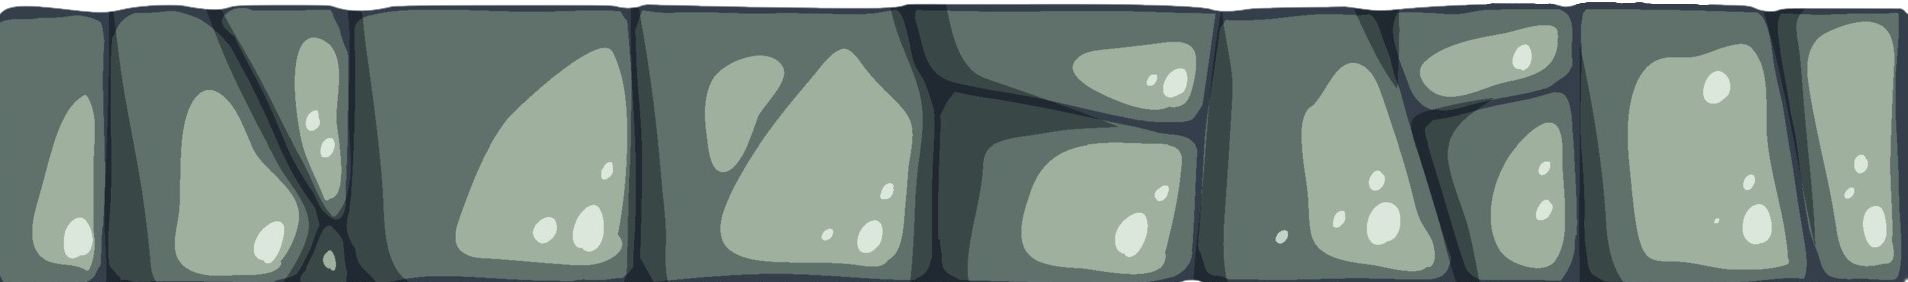
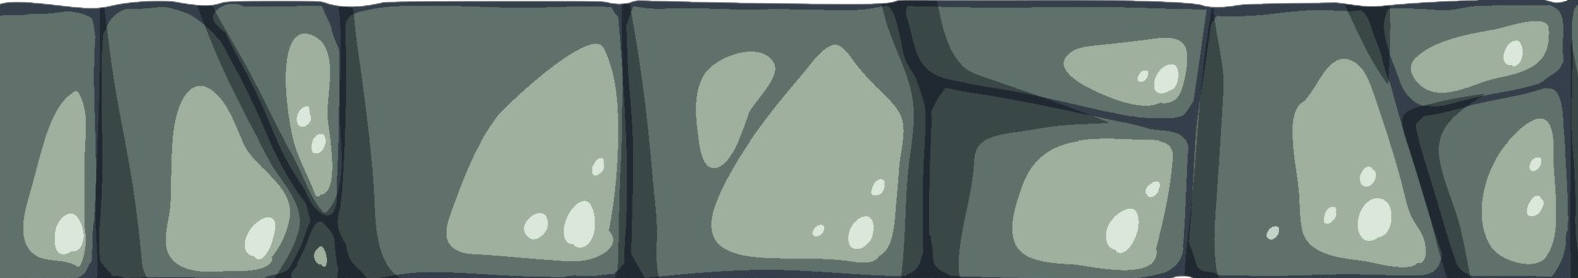
Añado los assets de  boxArmed

diff --git a/src/Scenes/Scene.ts b/src/Scenes/Scene.ts
@@ -1,14 +1,12 @@
 import { Container, Texture, TilingSprite} from "pixi.js";
 import { IActualizable } from "../Utils/IActualizable";
-import { LogoDeCarga } from "./LogoDeCarga";
-import { index } from "..";
 import { Player } from "../Game/Player";
 import { Plataform } from "../Game/Plataform";
 import { checkCollision } from "../Game/IHitbox";
+import { BoxArmed } from "../Game/BoxArmed";
 
 export class Scene extends Container implements IActualizable{
 
-    private physicsLogo: LogoDeCarga;
     private playerSoldier: Player;
     private plataforms: Plataform[];
     private world: Container;
@@ -25,20 +23,13 @@ export class Scene extends Container implements IActualizable{
 
         this.plataforms = [];
 
-        let plataforma = new Plataform("plataforma_piedra");
-        plataforma.position.set(700, 450);
-        plataforma.scale.set(0.1, 0.1);
-        this.world.addChild(plataforma);
-        this.plataforms.push(plataforma);
-
-        plataforma = new Plataform("plataforma_piedra");
-        plataforma.position.set(1200, 300);
-        plataforma.scale.set(0.1, 0.1);
-        this.world.addChild(plataforma);
-        this.plataforms.push(plataforma);
-
         let piso = new Plataform("piso_piedra");
-        piso.position.set(-23, 630);
+        piso.position.set(0, 637);
+        this.world.addChild(piso);
+        this.plataforms.push(piso);
+
+        piso = new Plataform("piso_piedra");
+        piso.position.set(787, 637);
         this.world.addChild(piso);
         this.plataforms.push(piso);
 
@@ -47,49 +38,30 @@ export class Scene extends Container implements IActualizable{
         this.playerSoldier.pivot.set(Math.trunc(this.playerSoldier.width)/3, 0);
         this.world.addChild(this.playerSoldier);
 
-        this.physicsLogo = new LogoDeCarga();
-        this.physicsLogo.position.set(1200, 650);
-        this.physicsLogo.scale.set(0.5, 0.5);
-        this.world.addChild(this.physicsLogo);
-
         this.addChild(this.world);
+
+        const caja_armada1 = new BoxArmed(1);
+        caja_armada1.position.set(600,555);
+        this.addChild(caja_armada1);
+
+        const caja_armada2 = new BoxArmed(2);
+        caja_armada2.position.set(800,555);
+        this.addChild(caja_armada2);
 
     }
 
     public update(deltaTime: number, _deltaFrame: number): void {
         
         this.playerSoldier.update(deltaTime/2);
-        this.physicsLogo.update(deltaTime/2);
         
         this.timePased += deltaTime;
         if(this.timePased>(10000*(50/this.gameSpeed))){
-            if(this.gameSpeed<1000){
-                this.gameSpeed += 25;
-                this.playerSoldier.playerAnimated.animationSpeed +=0.005
-            }
             this.timePased = 0;
-            const plataforma = new Plataform("plataforma_piedra");
-            plataforma.position.set(index.screenWidth, 300 + Math.random()*150);
-            plataforma.scale.set(0.1, 0.1);
-            this.world.addChild(plataforma);
-            this.plataforms.push(plataforma);
-        }
+            
+            //Ir agregando obstáculos
 
-        const plataformsFloors = this.plataforms.filter((elem) => elem.isFloor);
-        if(plataformsFloors.length == 1){
-            const piso = new Plataform("piso_piedra");
-            piso.position.set(1880, 630);
-            this.world.addChild(piso);
-            this.plataforms.push(piso);
-        }
 
-        /*
-        console.log("Personaje y Piso1", checkCollision(this.playerSolider, this.plataforms[0]));
-        console.log("Personaje y Piso2", checkCollision(this.playerSolider, this.plataforms[1]));
-        console.log("Logo y Piso1", checkCollision(this.physicsLogo, this.plataforms[0]));
-        console.log("Logo y Piso2", checkCollision(this.physicsLogo, this.plataforms[1]));
-        console.log("Personaje y Logo", checkCollision(this.physicsLogo, this.playerSolider));
-        */
+        }
 
         let countExitPlat = 0;
         for (let plataform of this.plataforms){
@@ -113,6 +85,14 @@ export class Scene extends Container implements IActualizable{
         // Si la plataforma fué destruida sacarla de la lista de plataformas
         this.plataforms = this.plataforms.filter((elem) => !elem.destroyed);
 
+        const plataformsFloors = this.plataforms.filter((elem) => elem.isFloor);
+        if(plataformsFloors.length == 2){
+            const piso = new Plataform("piso_piedra");
+            piso.position.set(1570, 637);
+            this.world.addChild(piso);
+            this.plataforms.push(piso);
+        }
+
         // Player
         
         /*if(this.playerSoldier.x >= (index.screenWidth - 2*(this.playerSoldier.width/3))){
@@ -132,27 +112,7 @@ export class Scene extends Container implements IActualizable{
         this.background.tilePosition.x -= this.gameSpeed * deltaTime/3000;
         this.background.y = -this.playerSoldier.y * 0.1;
 
-        //Logo
-        // Si speed en Y negativa (-) y X positiva (+) logo va hacia arriba y hacia la derecha.
-        // Si speed en Y negativa (-) y X negativa (-) logo va hacia arriba y hacia la izquierda.
-        // Si speed en Y positiva (+) y X negativa (-) logo va hacia abajo y hacia la izquierda.
-        // Si speed en Y positiva (+) y X positiva (+) logo va hacia abajo y hacia la derecha.
-
-        if(this.physicsLogo.x >= (index.screenWidth - this.physicsLogo.width)){
-            this.physicsLogo.speed.x = this.physicsLogo.speed.x * (-1); 
-        }
-        if(this.physicsLogo.x <= 0){
-            this.physicsLogo.speed.x = this.physicsLogo.speed.x * (-1); 
-        }
-        if(this.physicsLogo.y >= (index.screenHeight - this.physicsLogo.height)){
-            this.physicsLogo.speed.y = this.physicsLogo.speed.y * (-1);
-        }
-        if(this.physicsLogo.y <= 0){
-            this.physicsLogo.speed.y = this.physicsLogo.speed.y * (-1);
-        }
-
         this.playerSoldier.update(deltaTime/2);
-        this.physicsLogo.update(deltaTime/2);
 
     }
 }

diff --git a/src/Game/Plataform.ts b/src/Game/Plataform.ts
@@ -13,44 +13,22 @@ export class Plataform extends PhysicsContainer implements IHitbox{
         this.hitbox = new Graphics();
         this.isFloor = false;
 
-        if(typePlat == "plataforma_tierra"){
-            const plataforma = Sprite.from("plataforma_tierra");
-            this.addChild(plataforma);
-
-            this.hitbox.beginFill(0x0000FF, 0.2);
-            this.hitbox.drawRect(0, 170, plataforma.width, 300);
-            this.hitbox.endFill();
-            this.addChild(this.hitbox);
-        }
-        else if(typePlat == "piso_tierra"){
+        if(typePlat == "piso_piedra"){
             this.isFloor = true;
-            const piso = Sprite.from("piso_tierra");
-            this.addChild(piso);
-
-            this.hitbox.beginFill(0x0000FF, 0.2);
-            this.hitbox.drawRect(0, 0, piso.width, 340);
-            this.hitbox.endFill();
-            this.addChild(this.hitbox);
-        }else if(typePlat == "plataforma_piedra"){
-            const plataforma = Sprite.from("plataforma_piedra");
-            this.addChild(plataforma);
-
-            this.hitbox.beginFill(0x0000FF, 0.2);
-            this.hitbox.drawRect(0, 40, plataforma.width, 400);
-            this.hitbox.endFill();
-            this.addChild(this.hitbox);
-        }
-        else if(typePlat == "piso_piedra"){
-            this.isFloor = true;
-            const piso = Sprite.from("piso_piedra");
+            const piso = Sprite.from("pisoPiedra");
+            piso.scale.set(0.5,0.3);
             this.addChild(piso);
 
             this.hitbox.beginFill(0x0000FF, 0.2);
             this.hitbox.drawRect(0, 0, piso.width, piso.height);
             this.hitbox.endFill();
             this.addChild(this.hitbox);
+        }else if(typePlat == "caja_madera"){
+
+            //Implementar
+
         }else{
-            console.log("DEVOLVER UN STRING VALIDO");
+            console.log("EL STRING INGRESADO EN EL CONSTRUCTOR DE PLATAFORMA NO ES VALIDO");
             this.hitbox.beginFill(0x0000FF, 0.2);
             this.hitbox.drawRect(0, 0, 0, 0);
             this.hitbox.endFill();

diff --git a/src/assets.ts b/src/assets.ts
@@ -1,7 +1,6 @@
 export const assets = {
-    militar: "./militar.png",
-    mortero: "./mortero.png",
-
+    
+    // Para logo de carga
     morteroPosicion1: "./IconoDeCarga/morteroPosicion1.png",
     morteroPosicion2: "./IconoDeCarga/morteroPosicion2.png",
     morteroPosicion3: "./IconoDeCarga/morteroPosicion3.png",
@@ -11,6 +10,7 @@ export const assets = {
     morteroPosicion7: "./IconoDeCarga/morteroPosicion7.png",
     morteroPosicion8: "./IconoDeCarga/morteroPosicion8.png",
     
+    //Para interfaz de usuario
     pergamino4: "./InterfazUI/pergamino4.png",
     estrella: "./InterfazUI/estrella.png",
     cinta: "./InterfazUI/cinta.png",
@@ -21,6 +21,7 @@ export const assets = {
     botonReintentarSeleccionado: "./InterfazUI/Botones/botonReintentarSeleccionado.png",
     botonReintentarPresionado: "./InterfazUI/Botones/botonReintentarPresionado.png",
 
+    //Para player
     soldadoCorriendo1: "./Player/SoldadoCorriendo1.png",
     soldadoCorriendo2: "./Player/SoldadoCorriendo2.png",
     soldadoCorriendo3: "./Player/SoldadoCorriendo3.png",
@@ -28,12 +29,16 @@ export const assets = {
     soldadoCorriendo5: "./Player/SoldadoCorriendo5.png",
     soldadoCorriendo6: "./Player/SoldadoCorriendo6.png",
 
-    plataforma_tierra: "./Plataforma/plataforma.png",
-    piso_tierra: "./Plataforma/piso.png",
-    plataforma_piedra: "./Plataforma/Plataforma de piedra.png",
-    piso_piedra: "./Plataforma/Piso de piedra.png",
+    //Para escena de juego
+    pisoPiedra: "./Plataforma/Piso de piedra.png",
     fondoDesierto: "./Fondo/background_desert.jpg",
-    fondoCiudad: "./Fondo/background_city.jpg"
+    fondoCiudad: "./Fondo/background_city.jpg",
+
+    //Objetos de juego
+    caja: "./Objetos/caja.png",
+    cajaMilitar: "./Objetos/caja_militar.png",
+    cofre: "./Objetos/cofre.png",
+    pinche: "./Objetos/pinche.png",
     
 
 };

diff --git a/src/Game/BoxArmed.ts b/src/Game/BoxArmed.ts
@@ -1,0 +1,54 @@
+import { Graphics, Rectangle, Sprite } from "pixi.js";
+import { IHitbox } from "./IHitbox";
+import { PhysicsContainer } from "./PhysicsContainer";
+import { Spearheads } from "./Spearheads";
+
+export class BoxArmed extends PhysicsContainer implements IHitbox{
+
+    private hitbox: Graphics;
+    
+    constructor(number : number){
+        super();
+
+        const box = Sprite.from("caja");
+        box.scale.set(0.09,0.09);
+        const pinches_izquierdos = new Spearheads();
+        pinches_izquierdos.scale.set(-1,-1);
+        pinches_izquierdos.position.set(-5, 80);
+        const pinches_superiores = new Spearheads();
+        pinches_superiores.angle = 270;
+        pinches_superiores.position.set(0,-5);
+        this.hitbox = new Graphics();
+        const pinche_esquina = Sprite.from("pinche");
+        pinche_esquina.position.set(-10,3);
+        pinche_esquina.scale.set(0.025,0.025);
+        pinche_esquina.angle = 270;
+
+        switch(number){
+            case 1:
+                this.hitbox.beginFill(0x0000FF, 0.2);
+                this.hitbox.drawRect(-10, 0, 90, 80);
+                this.hitbox.endFill();
+                break;
+            case 2:
+                this.hitbox.beginFill(0x0000FF, 0.2);
+                this.hitbox.drawRect(-10, -10, 90, 90);
+                this.hitbox.endFill();
+                this.addChild(pinches_superiores);
+                this.addChild(pinche_esquina);
+        }
+        this.addChild(box);
+
+        
+        this.addChild(pinches_izquierdos);
+        this.addChild(this.hitbox);
+    }
+    
+    
+    
+    
+    getHitbox(): Rectangle {
+        throw new Error("Method not implemented.");
+    }
+    
+}

diff --git a/src/Game/Spearheads.ts b/src/Game/Spearheads.ts
@@ -1,0 +1,39 @@
+import { Container, Sprite } from "pixi.js";
+
+export class Spearheads extends Container{
+
+    constructor(){
+        super();
+
+        const pinche1 = Sprite.from("pinche");
+        pinche1.position.set(0,0);
+        pinche1.scale.set(0.025,0.025);
+        pinche1.angle = 45;
+
+        const pinche2 = Sprite.from("pinche");
+        pinche2.position.set(0,15);
+        pinche2.scale.set(0.025,0.025);
+        pinche2.angle = 45;
+
+        const pinche3 = Sprite.from("pinche");
+        pinche3.position.set(0,30);
+        pinche3.scale.set(0.025,0.025);
+        pinche3.angle = 45;
+
+        const pinche4 = Sprite.from("pinche");
+        pinche4.position.set(0,45);
+        pinche4.scale.set(0.025,0.025);
+        pinche4.angle = 45;
+
+        const pinche5 = Sprite.from("pinche");
+        pinche5.position.set(0,60);
+        pinche5.scale.set(0.025,0.025);
+        pinche5.angle = 45;
+
+        this.addChild(pinche1);
+        this.addChild(pinche2);
+        this.addChild(pinche3);
+        this.addChild(pinche4);
+        this.addChild(pinche5);
+    }
+}
